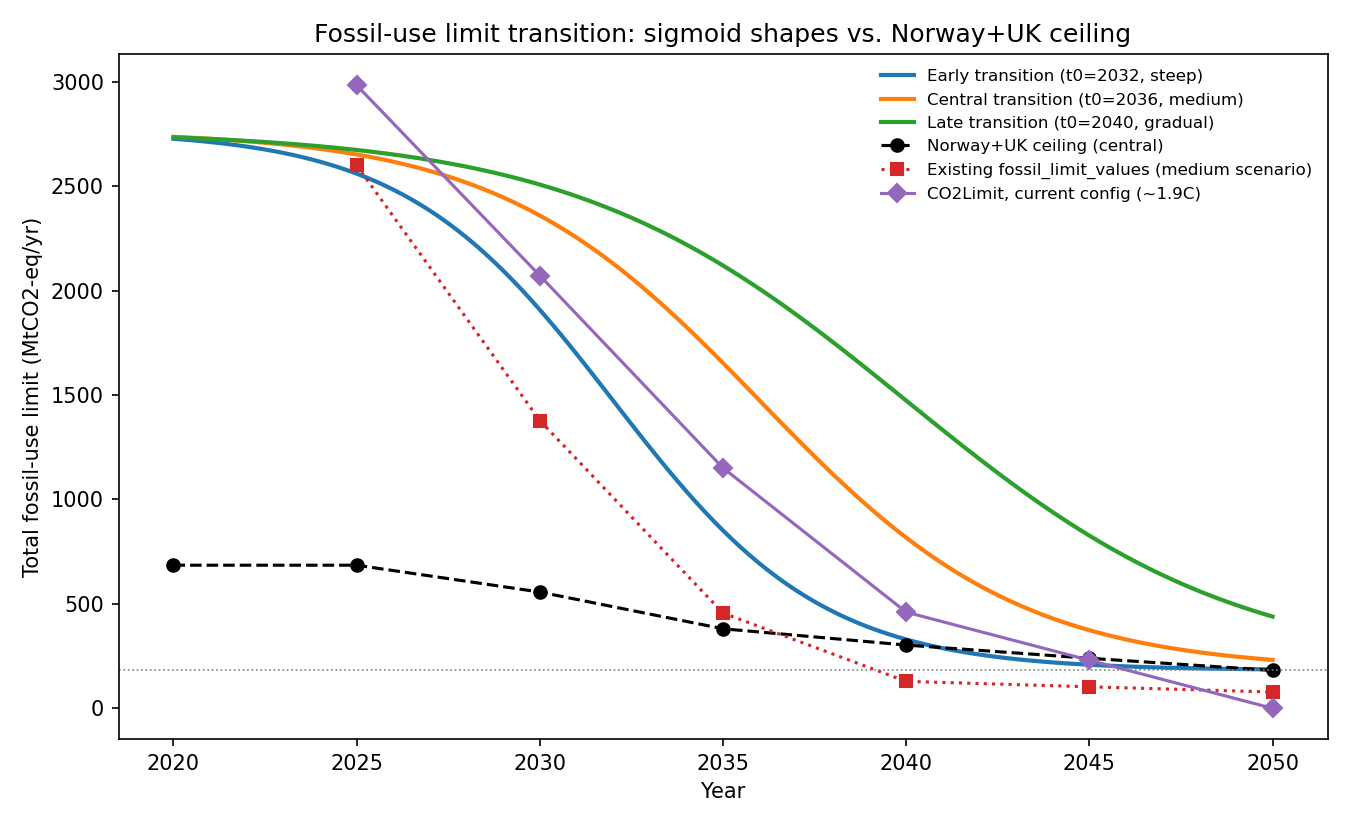
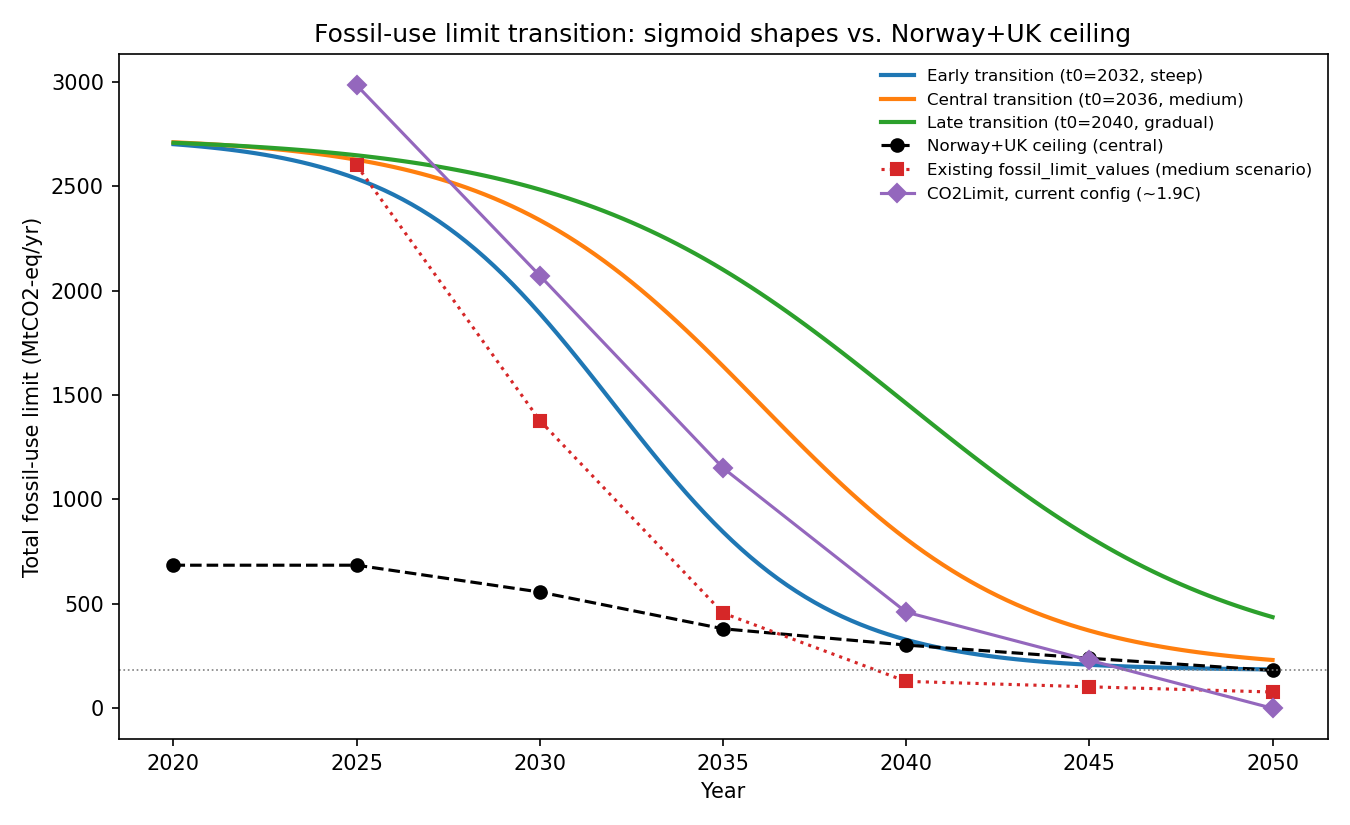
Fix fossil-supply anchor: use real 2020 Eurostat data, not a 2018 CO2 proxy
The previous anchor (2765.4 MtCO2, later corrected to 3255.5) came from
this fork's archived EEA/UNFCCC emissions data, which only goes to 2018 --
2018 was used as an explicit proxy for "2020", and even that had a bug
(missing direct industrial fuel combustion and agriculture machinery fuel).

Replaced with a genuine 2020 actual: Eurostat Complete Energy Balances
(nrg_bal_c), Gross Inland Consumption of gas+oil+coal, pulled directly
from this fork's own live-pipeline data cache on the cluster
(data/eurostat_balances/archive/2026-02/), which is both more current
and conceptually better suited (real physical fuel-supply volumes, not
derived emissions, and economy-wide by construction so no sector list to
miss one from). New anchor: 2739.0 MtCO2-eq (2020). Cross-check years
computed too: 2018=3616.4, 2023=2628.7, 2024=2554.9 -- 2024 sits close to
the existing fossil_limit_values[2025]=2600, a useful validation.

Saved a compact per-country/per-fuel extract
(text_docs/literature/eurostat_GIC_fossil_by_country_2020_scope.csv)
rather than the 273MB raw bulk file, since the source itself is
pypsa-eur's own re-fetchable data cache, not at risk of being lost.

diff --git a/text_docs/scripts/build_fossil_supply_security.py b/text_docs/scripts/build_fossil_supply_security.py
@@ -3,8 +3,10 @@ Build the fossil-supply-security curves documented in
 text_docs/text/fossil_supply_security_methodology.md:
 
 1. A sigmoid transition of the TOTAL fossil-use limit (MtCO2-eq/yr) from a
-   real historical anchor (~2018, EEA/UNFCCC data, this fork's own 34-country
-   scope) down to a 2050 floor set by Norway+UK production alone.
+   real historical anchor (genuine 2020 actual, Eurostat Complete Energy
+   Balances / nrg_bal_c, Gross Inland Consumption, this fork's own
+   33-country data scope) down to a 2050 floor set by Norway+UK production
+   alone.
 2. Norway (SODIR/Norwegian Offshore Directorate) + UK (NSTA) production,
    converted to MtCO2-eq/yr, as the "European-safe" supply ceiling.
 3. The ratio of (2) over (1) per year -- how much of the allowed total
@@ -25,14 +27,20 @@ out_dir = sys.argv[1] if len(sys.argv) > 1 else "."
 YEARS = [2020, 2025, 2030, 2035, 2040, 2045, 2050]
 
 # ---------------------------------------------------------------------------
-# 1. Historical anchor: 2018 fossil-combustion CO2, this fork's own
-#    EEA/UNFCCC data (scripts/build_co2_totals.py), summed over individual
-#    EU28+CH+NO+GB countries (not the EU28 aggregate row, to avoid double
-#    counting). 2018 is the latest year in the locally-archived UNFCCC_v23
-#    data; used as a proxy for "2020" per the methodology doc's caveat
-#    (2020 itself was a COVID-depressed outlier year, so 2018 is arguably a
-#    more representative "pre-transition" anchor anyway).
-ANCHOR_2018_MTCO2 = 2765.4
+# 1. Historical anchor: GENUINE 2020 actual (not a proxy), Eurostat Complete
+#    Energy Balances (nrg_bal_c), Gross Inland Consumption (GIC) of natural
+#    gas (G3000) + oil & petroleum products excl. biofuels (O4000XBIO) +
+#    solid fossil fuels (C0000X0350-0370), summed across this fork's
+#    33-country scope (all 34 minus CH, which this Eurostat dataset does not
+#    cover). Source: data/eurostat_balances/archive/2026-02/estat_nrg_bal_c.tsv.gz
+#    on the cluster (this fork's own live-pipeline data cache, published by
+#    Eurostat, archived there Feb 2026) -- a compact per-country extract is
+#    saved at text_docs/literature/eurostat_GIC_fossil_by_country_2020_scope.csv.
+#    Cross-check years also computed: 2018=3616.4, 2023=2628.7, 2024=2554.9
+#    MtCO2-eq -- note 2024 (latest actual) sits close to this config's own
+#    assumed fossil_limit_values[2025]=2600, a reassuring cross-validation.
+ANCHOR_YEAR = 2020
+ANCHOR_2020_MTCO2 = 2739.0  # genuine 2020 actual, MtCO2-eq -- see comment above.
 
 # ---------------------------------------------------------------------------
 # 2. Norway: Norwegian Offshore Directorate (Sodir) "Resource Report 2024",
@@ -101,10 +109,10 @@ ceiling[2020] = no_mtco2(2020) + uk_mtco2(2025)  # no UK trend info before 2025;
 FLOOR_2050 = ceiling[2050]
 
 # ---------------------------------------------------------------------------
-# Sigmoid total-fossil-limit transition: ceiling (2018 anchor) -> floor (2050,
+# Sigmoid total-fossil-limit transition: ceiling (2020 anchor) -> floor (2050,
 # European-safe supply). Three steepness variants for sensitivity, per the
 # "shape matters in the middle years" discussion.
-def sigmoid(year, t0, k, top=ANCHOR_2018_MTCO2, bottom=FLOOR_2050):
+def sigmoid(year, t0, k, top=ANCHOR_2020_MTCO2, bottom=FLOOR_2050):
     return bottom + (top - bottom) / (1 + np.exp(k * (year - t0)))
 
 VARIANTS = {
@@ -181,7 +189,7 @@ for y in ceiling_years:
 print(f"\nUK decay fit: e0={UK_E0_TWH:.1f} TWh/yr, budget={UK_BUDGET_TWH:.1f} TWh, m={UK_M:.4f}/yr")
 print(f"UK blended intensity: {UK_BLENDED_INTENSITY:.4f} tCO2/MWh")
 print(f"\nFLOOR_2050 (Norway+UK central): {FLOOR_2050:.1f} MtCO2-eq/yr")
-print(f"ANCHOR_2018: {ANCHOR_2018_MTCO2} MtCO2-eq/yr")
+print(f"ANCHOR_2020: {ANCHOR_2020_MTCO2} MtCO2-eq/yr")
 print("\nCentral sigmoid vs existing fossil_limit_values vs Norway+UK ceiling, and ratio:")
 for y in sig_years:
     ex = existing.get(y)

diff --git a/text_docs/text/fossil_supply_security_methodology.md b/text_docs/text/fossil_supply_security_methodology.md
@@ -48,25 +48,36 @@ exact Victoria et al. formula for exactly this reason.
 
 `limit(t) = floor + (ceiling - floor) / (1 + exp(k(t - t0)))`
 
-- **Ceiling** (2020/pre-transition level): **2765.4 MtCO2-eq/yr**. Computed
-  directly from this fork's own historical-emissions pipeline
-  (`scripts/build_co2_totals.py::build_eea_co2`, EEA/UNFCCC data,
-  `data/ghg_emissions/archive/v23/UNFCCC_v23.csv`), summing all
-  combustion-related IPCC sectors (electricity, buildings, transport,
-  navigation, aviation, waste, other, indirect — excluding LULUCF and
-  industrial process emissions) across the individual EU28+CH+NO+GB
-  countries in that dataset (not the EU28 aggregate row, to avoid double
-  counting). **Caveat**: the locally-archived data only goes up to **2018**,
-  not 2020 — 2018 is used as the proxy. This is arguably fine or even
-  preferable: 2020 itself was a COVID-depressed outlier year (EU fossil CO2
-  fell ~10% that year per Eurostat), so 2018 is a more representative
-  "business as usual, pre-transition" anchor than the real 2020 figure would
-  be. This total is also missing the Balkan countries in this fork's full
-  34-country scope (AL, BA, ME, MK, RS, XK) — the EEA/UNFCCC dataset used
-  doesn't cover them — so the true anchor for the full model scope is
-  somewhat higher than 2765.4. For scale: this is close to the existing
-  `fossil_limit_values[2025] = 2600`, which cross-validates the two
-  independent numbers reasonably well.
+- **Ceiling** (2020, genuine historical actual — not a proxy): **2739.0
+  MtCO2-eq/yr**. Computed from **Eurostat's Complete Energy Balances**
+  (`nrg_bal_c`), **Gross Inland Consumption (GIC)** — i.e. real physical
+  fuel-supply volumes, not derived emissions — of natural gas (SIEC
+  `G3000`) + oil & petroleum products excl. biofuels (`O4000XBIO`) + solid
+  fossil fuels (`C0000X0350-0370`), summed across 33 of this fork's 34
+  countries (all except Switzerland, which this Eurostat dataset does not
+  cover). Source file: `data/eurostat_balances/archive/2026-02/estat_nrg_bal_c.tsv.gz`
+  on the cluster — this fork's own live-pipeline data cache (Eurostat's own
+  published data, archived there Feb 2026, so genuinely current). A compact
+  per-country/per-fuel extract is saved at
+  `text_docs/literature/eurostat_GIC_fossil_by_country_2020_scope.csv` for
+  reproducibility (the 273MB raw bulk file itself was not committed — it is
+  pypsa-eur's own re-fetchable data cache, not at risk of being lost the way
+  a manually-written note would be).
+
+  This supersedes an earlier draft of this document that used a **2018,
+  emissions-based** proxy (EEA/UNFCCC `build_co2_totals.py` pipeline, which
+  the fork only has archived up to 2018) — that number ALSO originally
+  undercounted by omitting direct industrial fuel combustion and
+  agriculture-machinery fuel. Both problems are now fixed: real 2020 data,
+  full sector/fuel coverage via Eurostat's economy-wide GIC measure (which
+  by construction includes every combustion sector — power, industry,
+  transport including road gasoline/diesel, buildings, agriculture — with no
+  per-sector column list to accidentally miss one from).
+
+  Cross-check years from the same source: 2018 = 3616.4, 2023 = 2628.7,
+  **2024 (latest actual) = 2554.9** MtCO2-eq. The 2024 actual sits close to
+  this config's own assumed `fossil_limit_values[2025] = 2600` — a
+  reassuring independent cross-validation of that existing assumption.
 - **Floor** (2050): the Norway+UK production ceiling, **181.6 MtCO2-eq/yr**
   central case (Section 4).
 - **t0, k** (inflection year, steepness): **not settled** — this is exactly
@@ -145,13 +156,13 @@ downloaded but is the 2019 vintage, not the current one — see open items).
 
 | Year | Norway (MtCO2eq) | UK (MtCO2eq) | **NO+UK ceiling** | Existing `fossil_limit_values` | Sigmoid (central) | NO+UK share of sigmoid |
 |-----:|------:|------:|------:|------:|------:|------:|
-| 2020 | 529.3 | (n/a, held at 2025 rate) | 685.2 | -- | 2736.4 | 25.0% |
-| 2025 | 529.3 | 156.0 | 685.2 | 2600 | 2651.9 | 25.8% |
-| 2030 | 468.3 |  88.5 | 556.8 | 1378 | 2359.5 | 23.6% |
-| 2035 | 348.5 |  32.4 | 380.9 |  456 | 1653.2 | 23.0% |
-| 2040 | 292.6 |  10.2 | 302.8 |  129 |  817.2 | 37.0% |
-| 2045 | 236.7 |   3.0 | 239.7 |  103 |  374.0 | 64.1% |
-| 2050 | 180.8 |   0.8 | 181.6 |   78 |  231.9 | 78.3% |
+| 2020 | 529.3 | (n/a, held at 2025 rate) | 685.2 | -- | 2710.3 | 25.3% |
+| 2025 | 529.3 | 156.0 | 685.2 | 2600 | 2626.6 | 26.1% |
+| 2030 | 468.3 |  88.5 | 556.8 | 1378 | 2337.2 | 23.8% |
+| 2035 | 348.5 |  32.4 | 380.9 |  456 | 1638.2 | 23.3% |
+| 2040 | 292.6 |  10.2 | 302.8 |  129 |  810.8 | 37.3% |
+| 2045 | 236.7 |   3.0 | 239.7 |  103 |  372.0 | 64.4% |
+| 2050 | 180.8 |   0.8 | 181.6 |   78 |  231.4 | 78.5% |
 
 **The key finding**: the existing (climate-driven) `fossil_limit_values`
 falls *below* the Norway+UK physical ceiling from 2040 onward — by 2040 the
